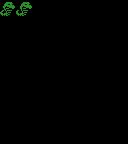
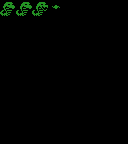
three types of snakes: normal, dashing and poison-spitting

Changed region(s): [[0.25, 0.0, 0.375, 0.1111], [0.4062, 0.0278, 0.4688, 0.0556]]

diff --git a/java/src/xspelunker2/GenerateSprites.java b/java/src/xspelunker2/GenerateSprites.java
@@ -156,6 +156,9 @@ public class GenerateSprites {
         data.addAll(extractSprite(sourceImage, 16, 0, 12));
         data.addAll(extractSpriteFlipped(sourceImage, 0, 0, 12));  // snake left
         data.addAll(extractSpriteFlipped(sourceImage, 16, 0, 12));
+        data.addAll(extractSprite(sourceImage, 32, 0, 12));  // snake spitting right
+        data.addAll(extractSpriteFlipped(sourceImage, 32, 0, 12));  // snake spitting left
+        data.addAll(extractSpriteFlipped(sourceImage, 48, 0, 12));  // poison
         
         System.out.println("extractEnemySprites: " + data.size());
         Z80Assembler.dataToBinary(data, outputPath + ".bin");   
